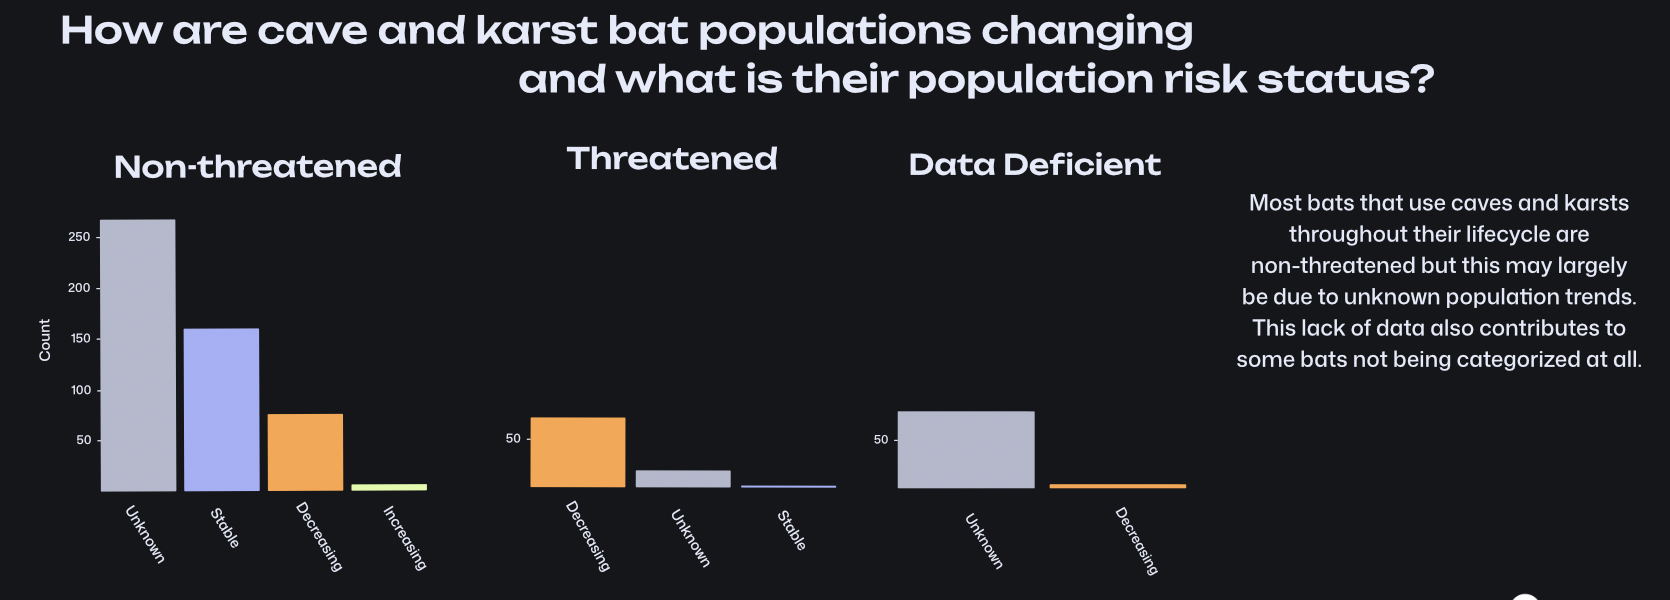
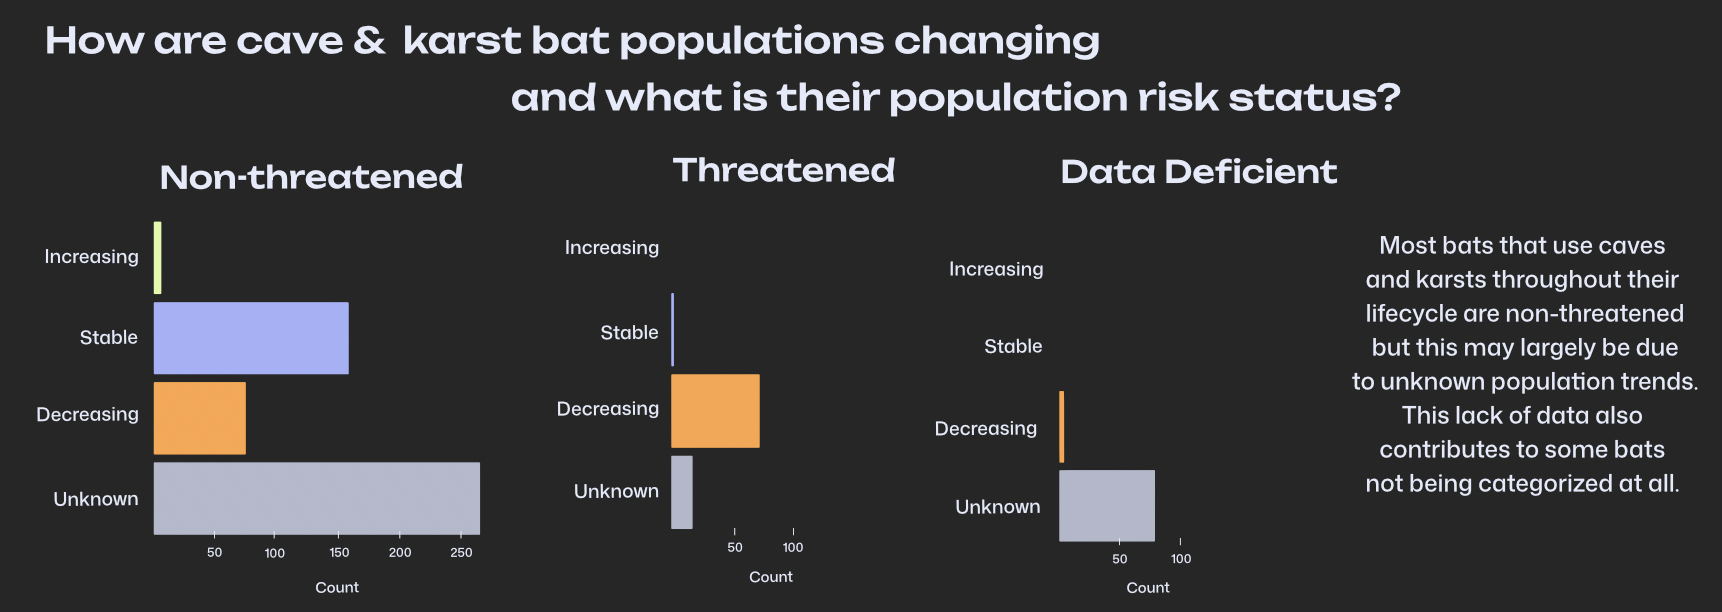
Bat visuals update

diff --git a/docs/blog/bat-infographic/index.html b/docs/blog/bat-infographic/index.html
@@ -241,8 +241,8 @@ pre > code.sourceCode > span > a:first-child::before { text-decoration: underlin
 <figcaption>Bat distribution graphic</figcaption>
 </figure>
 </div>
-<p>My favorite graphic from my infographic is the map sandwiched between the two distribution plots. The original graphic of the distribution plots and the map were made using {ggplot2}. The top distribution plot shows the distribution of cave and karst bats based on longitude location. This distribution plot correlates with the points on the map. Each point on the map depicts the location of individual bat observations. The distribution plot on the bottom shows the distribution of caves and karsts used by bats that are threatened by dense populations and urban areas. I made the distribution plots look like karsts and added a bat to further amplify the bat visual. I love this graphic form because it depicts a large amount of information in a relatively small amount of space.</p>
-<p>The distribution of cave and karst bats based on longitude location and the points on the map showing the individual observations of cave and karst bats are shown in the same color to denote that they are the same values depicted in different formats. The text was added in Affinity to manipulate the spacing and fonts. The arrow was also added in Affinity to better display what the points on the map show.</p>
+<p>My favorite graphic from my infographic is the map sandwiched between the two distribution plots. The original graphic of the distribution plots and the map were made using {ggplot2}. The top distribution plot shows the distribution of cave and karst bats based on longitude location. This distribution plot correlates with the points on the map. Each point on the map depicts the location of individual bat observations. The distribution plot on the bottom shows the distribution of cave and karst habitats that are threatened by densely populations and urban areas based on longitudinal location. I made the distribution plots look like karsts and added a bat to further amplify the bat visual. I love this graphic form because it depicts a large amount of information in a relatively small amount of space.</p>
+<p>The distribution of cave and karst bats based on longitudinal location and the points on the map showing the individual observations of cave and karst bats are shown in the same color to denote that they are the same values depicted in different formats. The text was added in Affinity to manipulate the spacing and fonts. The arrow was also added in Affinity to better display what the points on the map show.</p>
 <p>My subheading discussing possible research gaps is intended to inform on the possible gaps in the data and show where resources can be deployed to gain a better understanding of bats globally.</p>
 </section>
 <section id="bat-ecosystem-visualization" class="level1">
@@ -258,7 +258,7 @@ pre > code.sourceCode > span > a:first-child::before { text-decoration: underlin
 </section>
 <section id="bat-trends-population-graphic" class="level1">
 <h1>Bat trends population graphic</h1>
-<p><img src="final_viz/bat-pop-trends-graphic.png" class="img-fluid" alt="Bat population trends graphic"> Finally, I made a barplot that shows population trends for bats. I divided the bat populations into those that are non-threatened, threatened, and data deficient. Bat population trends are then categorized as unknown, stable, increasing, and decreasing. I left in the populations that do not have enough data to know either their population status or their trends because it further exhibits research gaps. Faceted bar plots are the best visual for this data because the scales are so different between the different population trends.</p>
+<p><img src="final_viz/bat-pop-trends-graphic.png" class="img-fluid" alt="Bat population trends graphic"> Finally, I made a barplot that shows population trends for bats. I divided the bat populations into those that are non-threatened, threatened, and data deficient. Bat population trends are then categorized as increasing, stable, decreasing, and unknown. I left in the populations that do not have enough data to know either their population status or their trends because it further exhibits research gaps. I also left blank bars to show that some population statuses do not have some of the population trends. For example, there are no threatened bat populations with increasing population sizes. Faceted bar plots are the best visual for this data because the scales are so different between the different population trends. Stylistically, I rotated the axis for easiest interpretation for readers.</p>
 </section>
 <section id="explore-the-code" class="level1">
 <h1>Explore the code</h1>

diff --git a/docs/blog.html b/docs/blog.html
@@ -214,7 +214,7 @@ window.Quarto = {
 
 <div class="quarto-listing quarto-listing-container-grid" id="listing-listing">
 <div class="list grid quarto-listing-cols-3">
-<div class="g-col-1" data-index="0" data-categories="TUVEUyUyQ1IlMkNEYXRhLXZpeg==" data-listing-date-sort="1773039600000" data-listing-file-modified-sort="1773609161481" data-listing-date-modified-sort="NaN" data-listing-reading-time-sort="18" data-listing-word-count-sort="3559">
+<div class="g-col-1" data-index="0" data-categories="TUVEUyUyQ1IlMkNEYXRhLXZpeg==" data-listing-date-sort="1773039600000" data-listing-file-modified-sort="1773707346569" data-listing-date-modified-sort="NaN" data-listing-reading-time-sort="19" data-listing-word-count-sort="3603">
 <a href="./blog/bat-infographic/index.html" class="quarto-grid-link">
 <div class="quarto-grid-item card h-100 card-left">
 <p class="card-img-top"><img src="blog/bat-infographic/final_viz/bat_infographic.png" style="height: 150px;"  class="thumbnail-image card-img"/></p>
